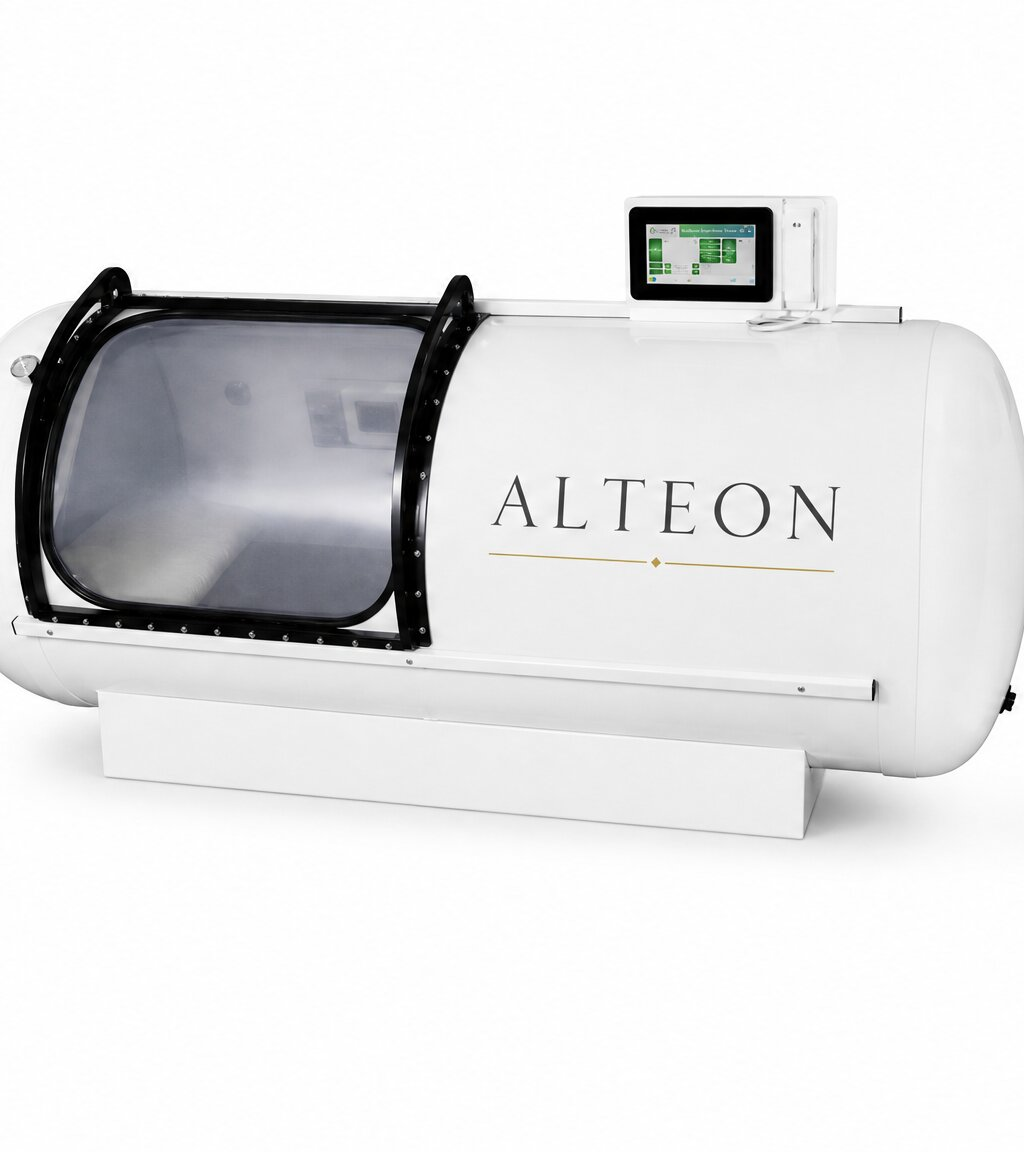
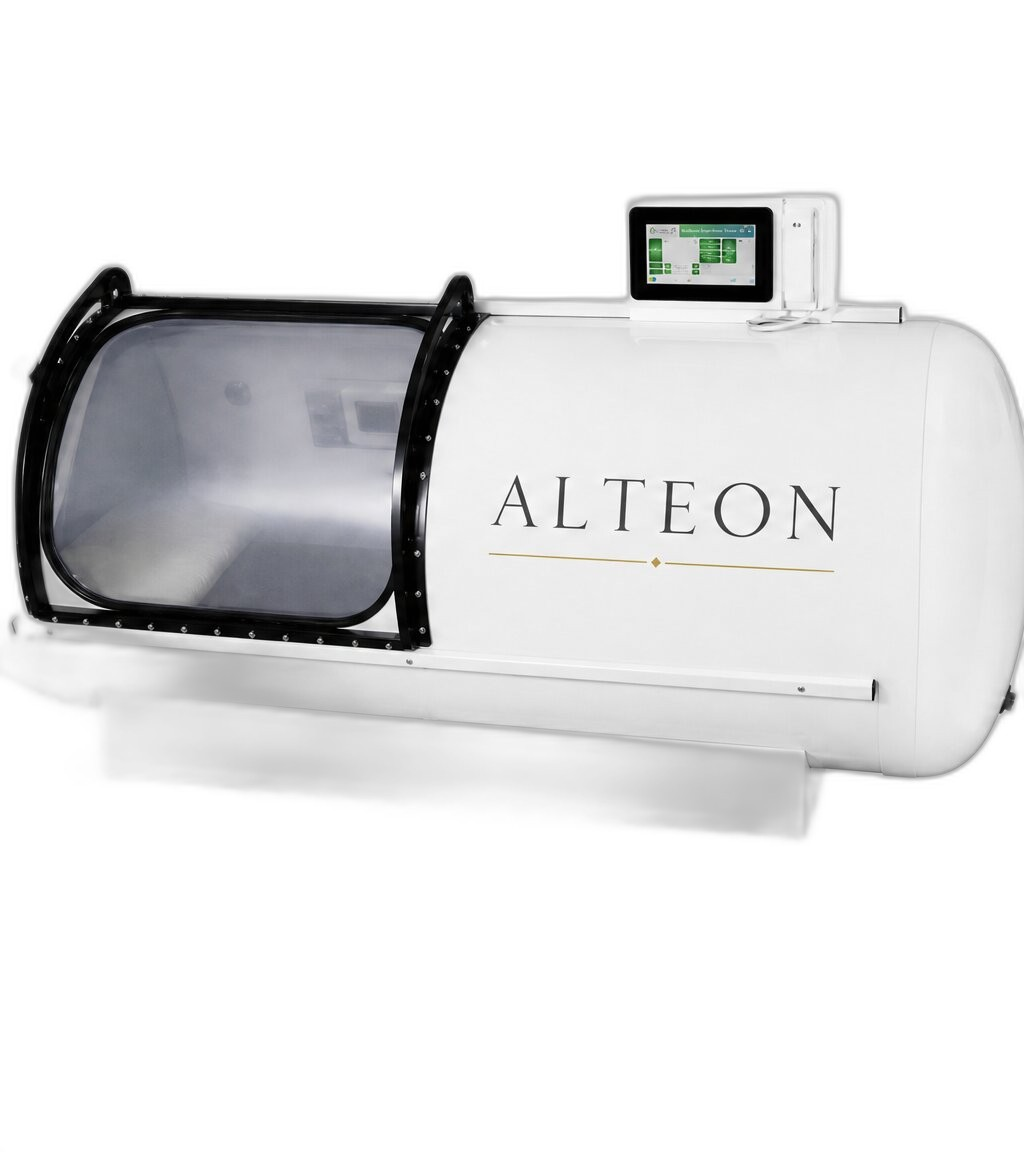
fix: Swap text-baked images for clean web-ready lifestyle and product images

diff --git a/public/assets/app.js b/public/assets/app.js
@@ -1019,7 +1019,7 @@ ${footer()}
               
             <div style="margin-bottom:2rem; display:flex; flex-wrap:wrap; gap:1.5rem; align-items:center;">
               <div style="flex:1; min-width:200px; background:#000; padding:1rem; border-radius:8px; text-align:center;">
-                <img src="/assets/images/alteon/cryoblast-pro.jpg" alt="Model 1 — CryoBlast Pro" loading="lazy" style="max-height:180px; max-width:100%; object-fit:contain; border-radius:4px;">
+                <img src="/assets/images/alteon/cryoblast-pro-lifestyle.jpg" alt="Model 1 — CryoBlast Pro" loading="lazy" style="max-height:180px; max-width:100%; object-fit:contain; border-radius:4px;">
               </div>
               <div style="flex:2; min-width:250px;">
                 <h4 style="color:#f4f0e9; font-size:1.15rem; margin-bottom:0.5rem; letter-spacing:0.02em;">Model 1 — CryoBlast Pro</h4>
@@ -1041,7 +1041,7 @@ ${footer()}
         
             <div style="margin-bottom:2rem; display:flex; flex-wrap:wrap; gap:1.5rem; align-items:center;">
               <div style="flex:1; min-width:200px; background:#000; padding:1rem; border-radius:8px; text-align:center;">
-                <img src="/assets/images/alteon/cryo-q-one.jpg" alt="Model 2 — Cryo Q One" loading="lazy" style="max-height:180px; max-width:100%; object-fit:contain; border-radius:4px;">
+                <img src="/assets/images/alteon/cryo-q-one-insitu.jpg" alt="Model 2 — Cryo Q One" loading="lazy" style="max-height:180px; max-width:100%; object-fit:contain; border-radius:4px;">
               </div>
               <div style="flex:2; min-width:250px;">
                 <h4 style="color:#f4f0e9; font-size:1.15rem; margin-bottom:0.5rem; letter-spacing:0.02em;">Model 2 — Cryo Q One</h4>
@@ -1281,7 +1281,7 @@ ${footer()}
     
       <div class="alteon-prod-card" style="background:#111; border:1px solid rgba(255,255,255,0.1); border-radius:12px; overflow:hidden; display:flex; flex-direction:column;">
         <div style="height:250px; background:#000; display:flex; align-items:center; justify-content:center; overflow:hidden; border-bottom:1px solid rgba(255,255,255,0.1);">
-          <img src="/assets/images/alteon/redlight-healray.jpg" alt="Red Light / Photobiomodulation" loading="lazy" style="width:100%; height:100%; object-fit:cover;">
+          <img src="/assets/images/alteon/redlight-hrt2.jpg" alt="Red Light / Photobiomodulation" loading="lazy" style="width:100%; height:100%; object-fit:cover;">
         </div>
         <div class="body" style="padding:2rem; display:flex; flex-direction:column; flex:1;">
           <h2 style="color:#b89968; font-size:1.5rem; font-family:'Playfair Display', serif; margin:0 0 1rem;">Red Light / Photobiomodulation</h2>
@@ -1377,7 +1377,7 @@ ${footer()}
     
       <div class="alteon-prod-card" style="background:#111; border:1px solid rgba(255,255,255,0.1); border-radius:12px; overflow:hidden; display:flex; flex-direction:column;">
         <div style="height:250px; background:#000; display:flex; align-items:center; justify-content:center; overflow:hidden; border-bottom:1px solid rgba(255,255,255,0.1);">
-          <img src="/assets/images/alteon/coldplunge-polardip-pro.jpg" alt="Cold Plunge & Ice Tubs" loading="lazy" style="width:100%; height:100%; object-fit:cover;">
+          <img src="/assets/images/alteon/coldplunge-lifestyle.jpg" alt="Cold Plunge & Ice Tubs" loading="lazy" style="width:100%; height:100%; object-fit:cover;">
         </div>
         <div class="body" style="padding:2rem; display:flex; flex-direction:column; flex:1;">
           <h2 style="color:#b89968; font-size:1.5rem; font-family:'Playfair Display', serif; margin:0 0 1rem;">Cold Plunge & Ice Tubs</h2>
@@ -1473,7 +1473,7 @@ ${footer()}
     
       <div class="alteon-prod-card" style="background:#111; border:1px solid rgba(255,255,255,0.1); border-radius:12px; overflow:hidden; display:flex; flex-direction:column;">
         <div style="height:250px; background:#000; display:flex; align-items:center; justify-content:center; overflow:hidden; border-bottom:1px solid rgba(255,255,255,0.1);">
-          <img src="/assets/images/alteon/revital-bed.jpg" alt="Multi-Therapy Recovery Beds" loading="lazy" style="width:100%; height:100%; object-fit:cover;">
+          <img src="/assets/images/alteon/revital-clean.jpg" alt="Multi-Therapy Recovery Beds" loading="lazy" style="width:100%; height:100%; object-fit:cover;">
         </div>
         <div class="body" style="padding:2rem; display:flex; flex-direction:column; flex:1;">
           <h2 style="color:#b89968; font-size:1.5rem; font-family:'Playfair Display', serif; margin:0 0 1rem;">Multi-Therapy Recovery Beds</h2>
@@ -1575,7 +1575,7 @@ ${footer()}
     
       <div class="alteon-prod-card" style="background:#111; border:1px solid rgba(255,255,255,0.1); border-radius:12px; overflow:hidden; display:flex; flex-direction:column;">
         <div style="height:250px; background:#000; display:flex; align-items:center; justify-content:center; overflow:hidden; border-bottom:1px solid rgba(255,255,255,0.1);">
-          <img src="/assets/images/alteon/ihht.jpg" alt="IHHT Altitude Training" loading="lazy" style="width:100%; height:100%; object-fit:cover;">
+          <img src="/assets/images/alteon/ihht-clean.jpg" alt="IHHT Altitude Training" loading="lazy" style="width:100%; height:100%; object-fit:cover;">
         </div>
         <div class="body" style="padding:2rem; display:flex; flex-direction:column; flex:1;">
           <h2 style="color:#b89968; font-size:1.5rem; font-family:'Playfair Display', serif; margin:0 0 1rem;">IHHT Altitude Training</h2>
@@ -1617,7 +1617,7 @@ ${footer()}
     
       <div class="alteon-prod-card" style="background:#111; border:1px solid rgba(255,255,255,0.1); border-radius:12px; overflow:hidden; display:flex; flex-direction:column;">
         <div style="height:250px; background:#000; display:flex; align-items:center; justify-content:center; overflow:hidden; border-bottom:1px solid rgba(255,255,255,0.1);">
-          <img src="/assets/images/alteon/bodymap360.jpg" alt="Body Composition Scan" loading="lazy" style="width:100%; height:100%; object-fit:cover;">
+          <img src="/assets/images/alteon/bodymap-clean.jpg" alt="Body Composition Scan" loading="lazy" style="width:100%; height:100%; object-fit:cover;">
         </div>
         <div class="body" style="padding:2rem; display:flex; flex-direction:column; flex:1;">
           <h2 style="color:#b89968; font-size:1.5rem; font-family:'Playfair Display', serif; margin:0 0 1rem;">Body Composition Scan</h2>
